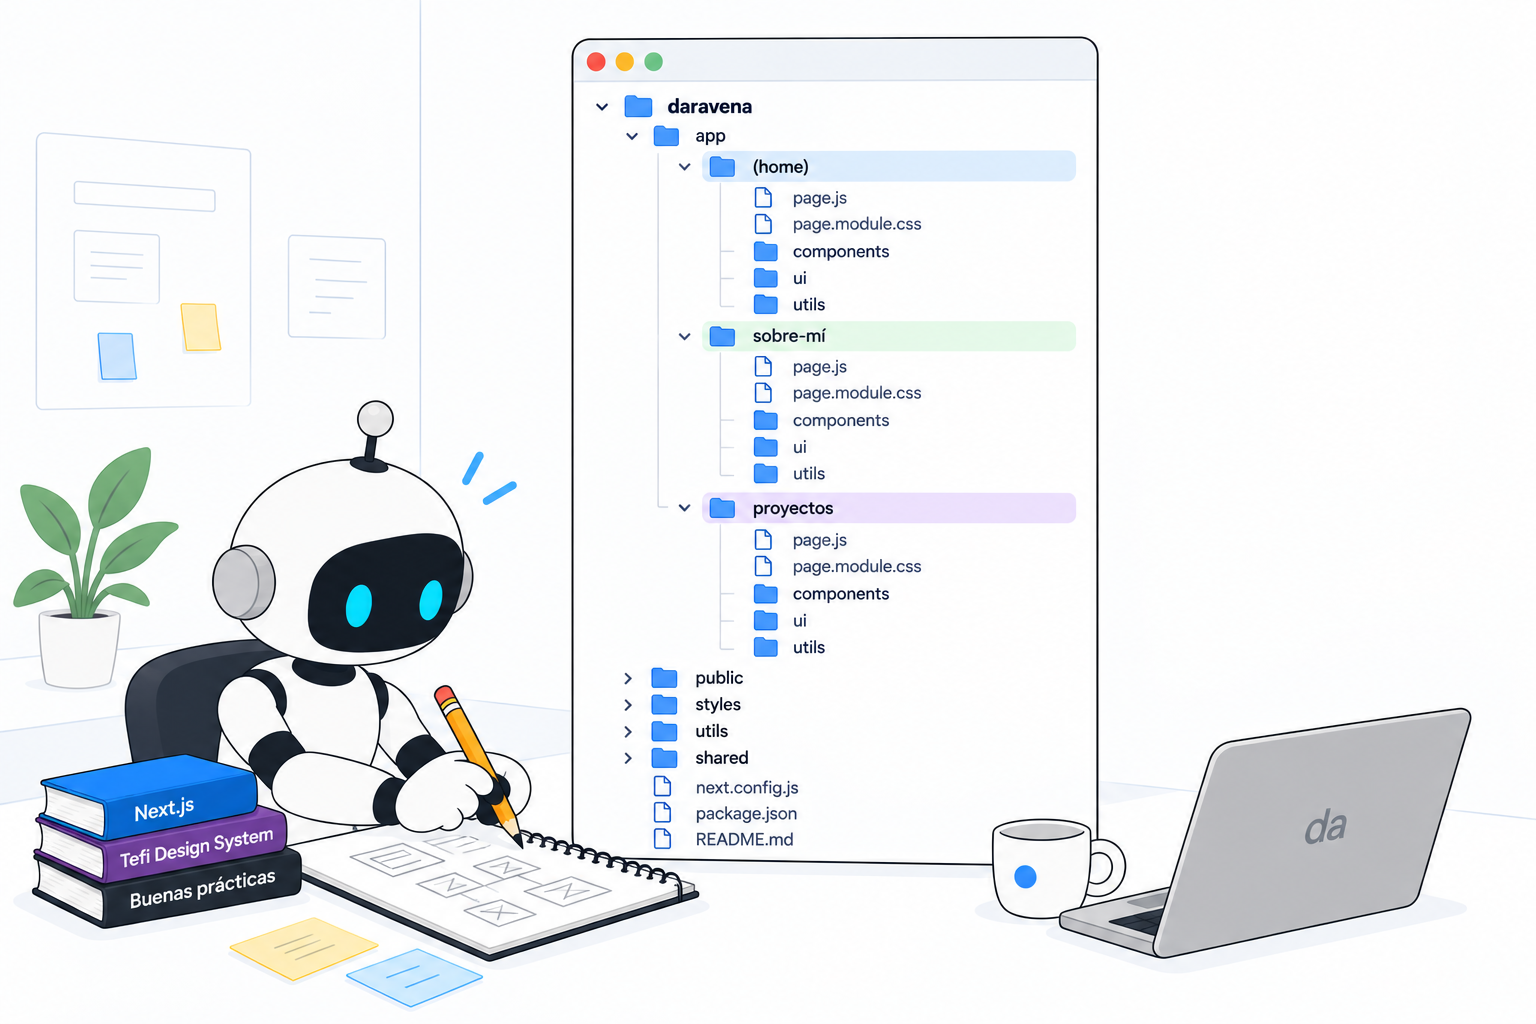
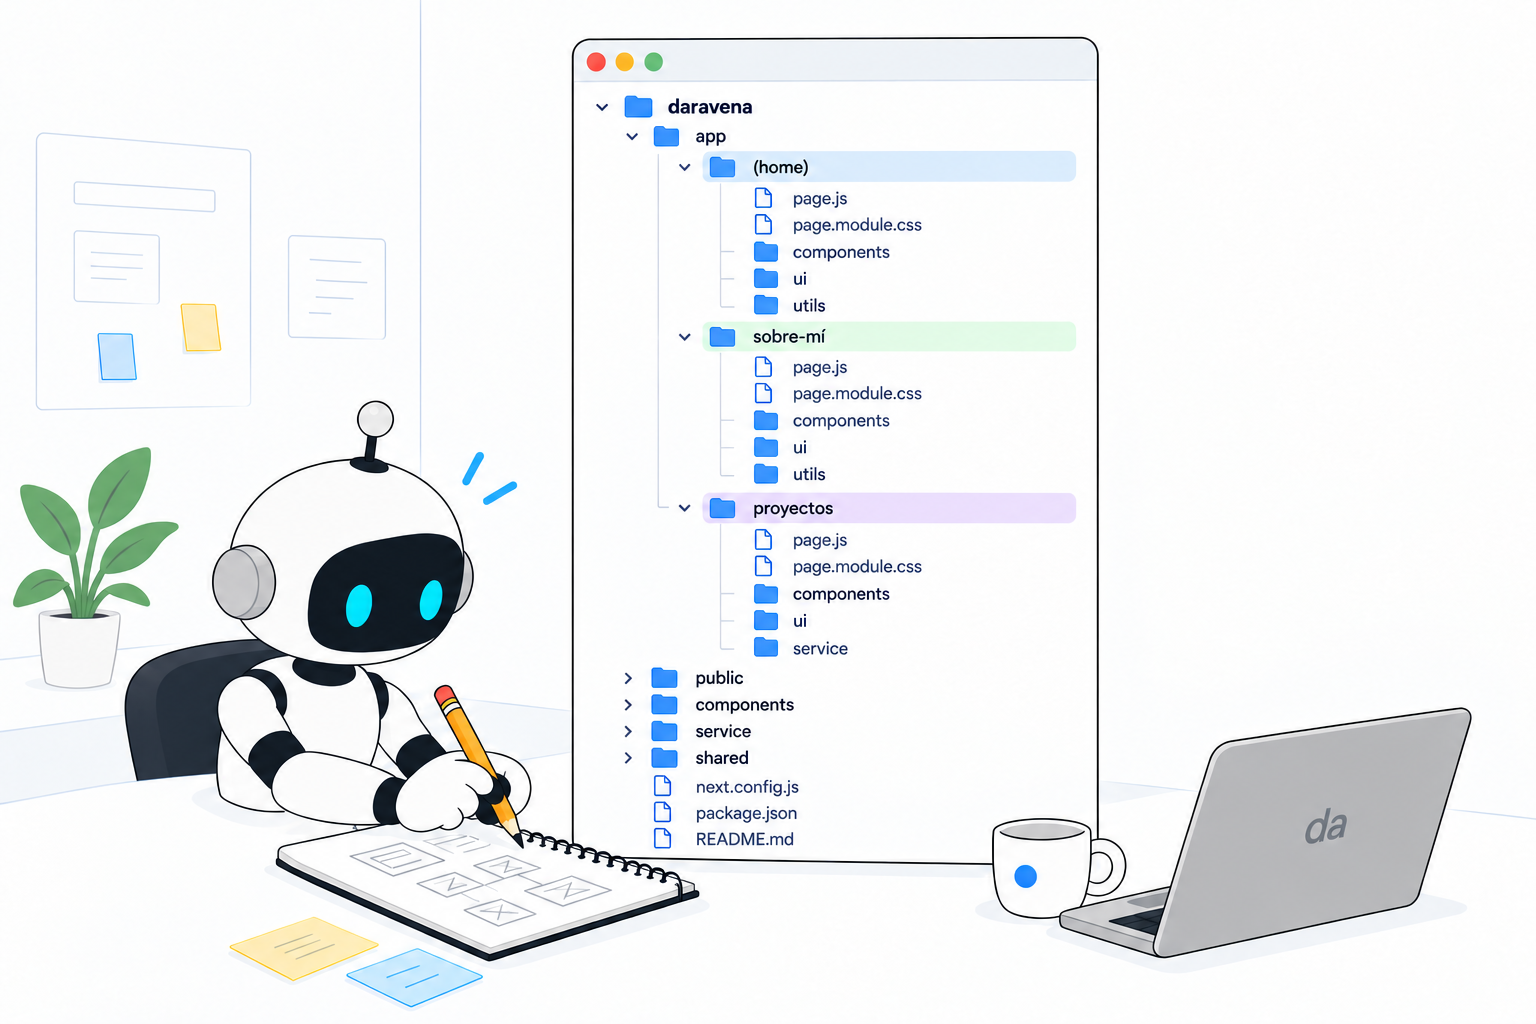
update: image imagenes route

diff --git a/app/imagenes/page.tsx b/app/imagenes/page.tsx
@@ -12,10 +12,13 @@ import {
 
 const slides = [
   {
-    src: "https://images.unsplash.com/photo-1518770660439-4636190af475?w=1200",
+    src: "/images/wide_clean_vector_illustration_flat_3d_ish_ui_te.png",
     alt: "Imagen de ejemplo 1: componentes electrónicos",
-    title: "Imagen de ejemplo 1",
-    description: "Texto de prueba para presentar el primer elemento del carrusel.",
+    title: "Desarrollo y organizo contexto",
+    description:
+    "Inicio especificando una estructura fija para cada componente que haya que construir.\n\n" +
+    "Cada componente va a ser igual en estructura.\n\n" +
+    "En mis proyectos solo hago que existan 5 tipos de cosas: controladores, servicios, componentes de lógica, componentes de UI y archivos css. Nada más.",
   },
   {
     src: "https://images.unsplash.com/photo-1516321318423-f06f85e504b3?w=1200",
@@ -53,7 +56,7 @@ export default function ImagenesPage() {
                   <Heading as="h2" size="lg">
                     {slide.title}
                   </Heading>
-                  <Text>{slide.description}</Text>
+                  <Text >{slide.description}</Text>
                 </Stack>
               </Stack>
             ))}
